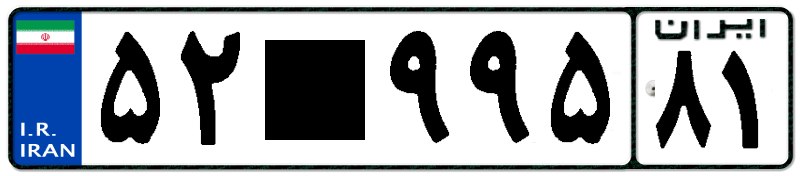
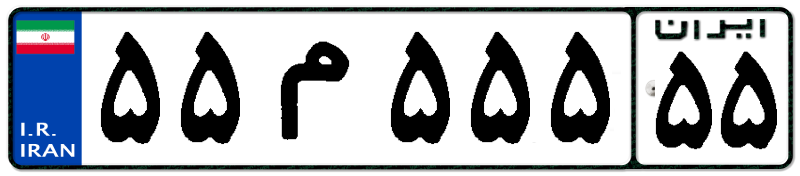
adding more chars

Changed region(s): [[0.2188, 0.1705, 0.6875, 0.8239], [0.8125, 0.2841, 0.9688, 0.8523]]

diff --git a/make_plate_from_png.py b/make_plate_from_png.py
@@ -9,84 +9,84 @@ import random
 
 # List of items to choose from
 numbers = [
-          {"ch":'1',
-           "position":[100, 30],
-           "size":[40, 115],
-           },
-          {"ch":'2',
-           "position":[100, 30],
-           "size":[60, 115],
-           },
-          {"ch":'3',
-           "position":[100, 30],
-           "size":[60, 115],
-           },
-          {"ch":'4',
-           "position":[100, 30],
-           "size":[60, 115],
-           },
+        #   {"ch":'1',
+        #    "position":[100, 30],
+        #    "size":[40, 115],
+        #    },
+        #   {"ch":'2',
+        #    "position":[100, 30],
+        #    "size":[60, 115],
+        #    },
+        #   {"ch":'3',
+        #    "position":[100, 30],
+        #    "size":[60, 115],
+        #    },
+        #   {"ch":'4',
+        #    "position":[100, 30],
+        #    "size":[60, 115],
+        #    },
           {"ch":'5',
            "position":[100, 30],
            "size":[60, 115],
            },
-          {"ch":'6',
-           "position":[100, 30],
-           "size":[60, 115],
-           },
-          {"ch":'7',
-           "position":[100, 30],
-           "size":[60, 115],
-           },
-          {"ch":'8',
-           "position":[100, 30],
-           "size":[60, 115],
-           },
-          {"ch":'9',
-           "position":[100, 30],
-           "size":[60, 115],
-           },
+        #   {"ch":'6',
+        #    "position":[100, 30],
+        #    "size":[60, 115],
+        #    },
+        #   {"ch":'7',
+        #    "position":[100, 30],
+        #    "size":[60, 115],
+        #    },
+        #   {"ch":'8',
+        #    "position":[100, 30],
+        #    "size":[60, 115],
+        #    },
+        #   {"ch":'9',
+        #    "position":[100, 30],
+        #    "size":[60, 115],
+        #    },
         ]
 mini_numbers = [
-          {"ch":'0',
-           "position":[100, 90],
-           "size":(40, 40),
-           },
-          {"ch":'1',
-           "position":[100, 50],
-           "size":(40, 100),
-           },
-          {"ch":'2',
-           "position":[100, 50],
-           "size":(57, 100),
-           },
-          {"ch":'3',
-           "position":[100, 50],
-           "size":(57, 100),
-           },
-          {"ch":'4',
-           "position":[100, 50],
-           "size":(57, 100),
-           },
+        #   {"ch":'0',
+        #    "position":[100, 90],
+        #    "size":(40, 40),
+        #    },
+        #   {"ch":'1',
+        #    "position":[100, 50],
+        #    "size":(40, 100),
+        #    },
+        #   {"ch":'2',
+        #    "position":[100, 50],
+        #    "size":(57, 100),
+        #    },
+        #   {"ch":'3',
+        #    "position":[100, 50],
+        #    "size":(57, 100),
+        #    },
+        #   {"ch":'4',
+        #    "position":[100, 50],
+        #    "size":(57, 100),
+        #    },
           {"ch":'5',
            "position":[100, 50],
            "size":(57, 100),
            },
-          {"ch":'6',
-           "position":[100, 50],
-           "size":(57, 100),
-           },
-          {"ch":'7',
-           "position":[100, 50],
-           "size":(57, 100),
-           },
-          {"ch":'8',
-           "position":[100, 50],
-           "size":(57, 100),
-           },
-          {"ch":'9',
-           "position":[100, 50],
-           "size":(57, 100),
-           },
+        #   {"ch":'6',
+        #    "position":[100, 50],
+        #    "size":(57, 100),
+        #    },
+        #   {"ch":'7',
+        #    "position":[100, 50],
+        #    "size":(57, 100),
+        #    },
+        #   {"ch":'8',
+        #    "position":[100, 50],
+        #    "size":(57, 100),
+        #    },
+        #   {"ch":'9',
+        #    "position":[100, 50],
+        #    "size":(57, 100),
+        #    },
         ]
 
 chars = [ 
@@ -99,18 +99,42 @@ chars = [
         #    "size":(80, 80),
         #    },
         #  {"ch":'D',
-        #    "position":(275, 50),
-        #    "size":(80, 80),
+        #    "position":(270, 40),
+        #    "size":(90, 90),
         #    },
         #  {"ch":'Q',
         #    "position":(265, 40),
         #    "size":(100, 100),
         #    },
-         {"ch":'HE',
-           "position":(265, 40),
-           "size":(100, 100),
+        #  {"ch":'J',
+        #    "position":(265, 40),
+        #    "size":(100, 100),
+        #    },
+        #  {"ch":'SIN',
+        #    "position":(265, 55),
+        #    "size":(100, 80),
+        #    },
+        #  {"ch":'SAD',
+        #    "position":(265, 55),
+        #    "size":(100, 80),
+        #    },
+        #  {"ch":'TA',
+        #    "position":(270, 30),
+        #    "size":(90, 110),
+        #    },
+        #  {"ch":'V',
+        #    "position":(280, 40),
+        #    "size":(70, 100),
+        #    },
+        #  {"ch":'M',
+        #    "position":(280, 40),
+        #    "size":(70, 100),
+        #    },
+         {"ch":'M',
+           "position":(280, 40),
+           "size":(70, 100),
            },
-        #  'HE', 'J', 'L', 'M', 'SAD', 'SIN', 'TA', 'V', 'Y'
+        #  'HE', 'L',  'V', 'Y'
          ]
 
 # Make a random choice from the list
@@ -141,9 +165,6 @@ overlay2 = remove_background(Image.open(f"./chars/{random_2['ch']}.png"))
 overlay2 = overlay2.resize(random_2['size']) 
 background.paste(overlay2, [180, random_2['position'][1]])
 
-# position = (160, 30)  # Specify the coordinates (x, y)
-# overlay5 = overlay5.resize((60, 115)) 
-# background.paste(overlay5, position)
 
 position = random_char['position']  # Specify the coordinates (x, y)
 overlaych = overlaych.resize(random_char['size']) 
@@ -168,21 +189,6 @@ background.paste(overlay6, [655, mini_random_1['position'][1]])
 overlay7 = remove_background(Image.open(f"./chars/{mini_random_2['ch']}.png"))
 overlay7 = overlay7.resize(mini_random_2['size']) 
 background.paste(overlay7, [720, mini_random_2['position'][1]])
-
-
-# position = (550, 30)  # Specify the coordinates (x, y)
-# overlay1 = overlay1.resize((40, 115)) 
-# background.paste(overlay5, position)
-
-# position = (662, 50)  # 4
-# overlay2 = overlay2.resize() # 4
-# # overlay1 = overlay1.resize((57, 100)) # 4
-# background.paste(overlay5, position)
-
-
-# position = (730, 90)  # Specify the coordinates (x, y)
-# overlay0 = overlay0.resize((40, 40)) 
-# background.paste(overlay5, position)
 
 
 # Save the final image with the overlay
